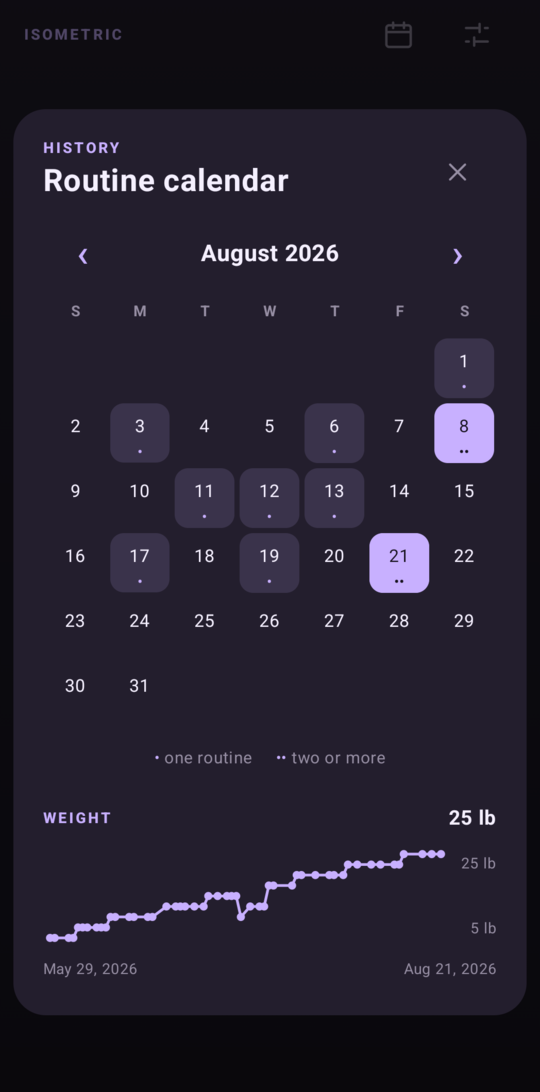
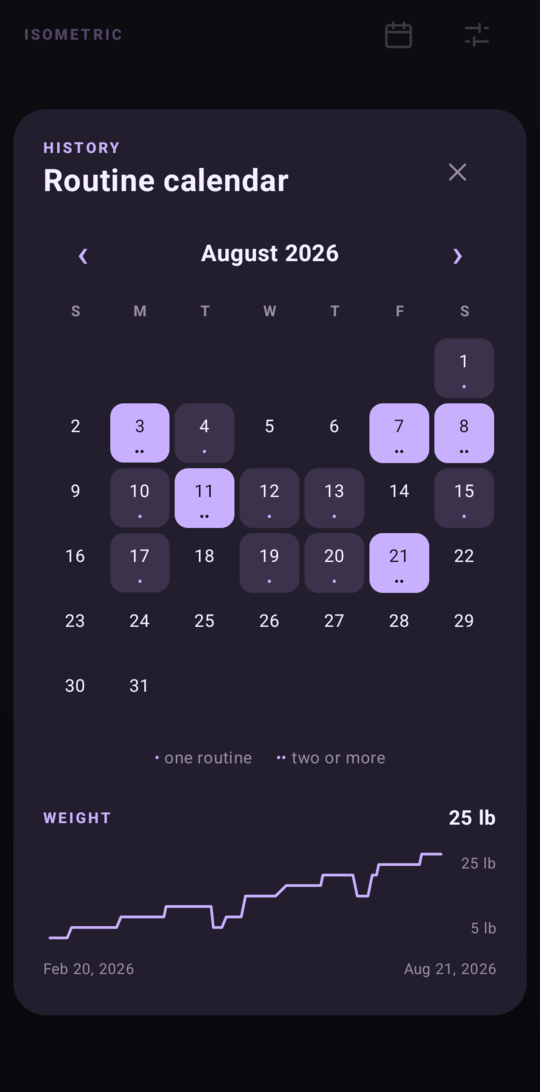
Swap the rest screenshot for the eight-hour gap warning
Rest showed the same layout as the hold beside it with the accent drained, so
it spent a quarter of the strip on a colour change. The gap warning earns the
slot instead: it is the only screen that shows the advisory interval existing
at all, and nothing else in the README conveys that starting early is a choice
rather than a block. It sits second, in the order the app actually reaches it,
which also separates the two bright frames.

The calendar is reseeded from 50 charted days to 110. At 50 the chart sat right
on MAX_DOT_POINTS and still drew dots, so it could not show what dcf63a7 does;
past the threshold the dots drop and six months of progression render as a clean
line. That is the longer window the chart was always capable of and could not
previously display legibly.

Data fabricated in a throwaway dev.jebaum.isometric.debug install, uninstalled
afterwards; the release package was never opened. rest.png remains in history at
5a67cc1 if it is ever wanted back.

Claude-Session: https://claude.ai/code/session_01XmDdorXMttFSPrDMCetUku

diff --git a/README.md b/README.md
@@ -8,14 +8,14 @@ looking at the screen.
 <table>
 <tr>
 <td width="25%"><img src="docs/screenshots/ready.png" width="100%" alt="Ready screen: the RIGHT SIDE phase at 35 seconds, a Start button, and today's routine count"></td>
-<td width="25%"><img src="docs/screenshots/hold.png" width="100%" alt="A hold in progress: 21 seconds left, the phase track part-filled, SWITCH queued next"></td>
-<td width="25%"><img src="docs/screenshots/rest.png" width="100%" alt="A rest phase: 82 seconds left, the accent colour drained to grey"></td>
-<td width="25%"><img src="docs/screenshots/calendar.png" width="100%" alt="The routine calendar: a month of completions, one mark per routine, above the hold-weight chart"></td>
+<td width="25%"><img src="docs/screenshots/gap.png" width="100%" alt="A dialog reading Less than 8 hours, offering Wait or Start anyway"></td>
+<td width="25%"><img src="docs/screenshots/hold.png" width="100%" alt="A hold in progress: 23 seconds left, the phase track part-filled, SWITCH queued next"></td>
+<td width="25%"><img src="docs/screenshots/calendar.png" width="100%" alt="The routine calendar: a month of completions, one mark per routine, above six months of hold-weight progression"></td>
 </tr>
 <tr>
 <td align="center"><sub><b>Ready</b><br>Waiting to start</sub></td>
+<td align="center"><sub><b>Too soon</b><br>The gap is advice, not a lock</sub></td>
 <td align="center"><sub><b>Holding</b><br>The screen you don't look at</sub></td>
-<td align="center"><sub><b>Rest</b><br>Colour drains out</sub></td>
 <td align="center"><sub><b>History</b><br>Completions and weight</sub></td>
 </tr>
 </table>
